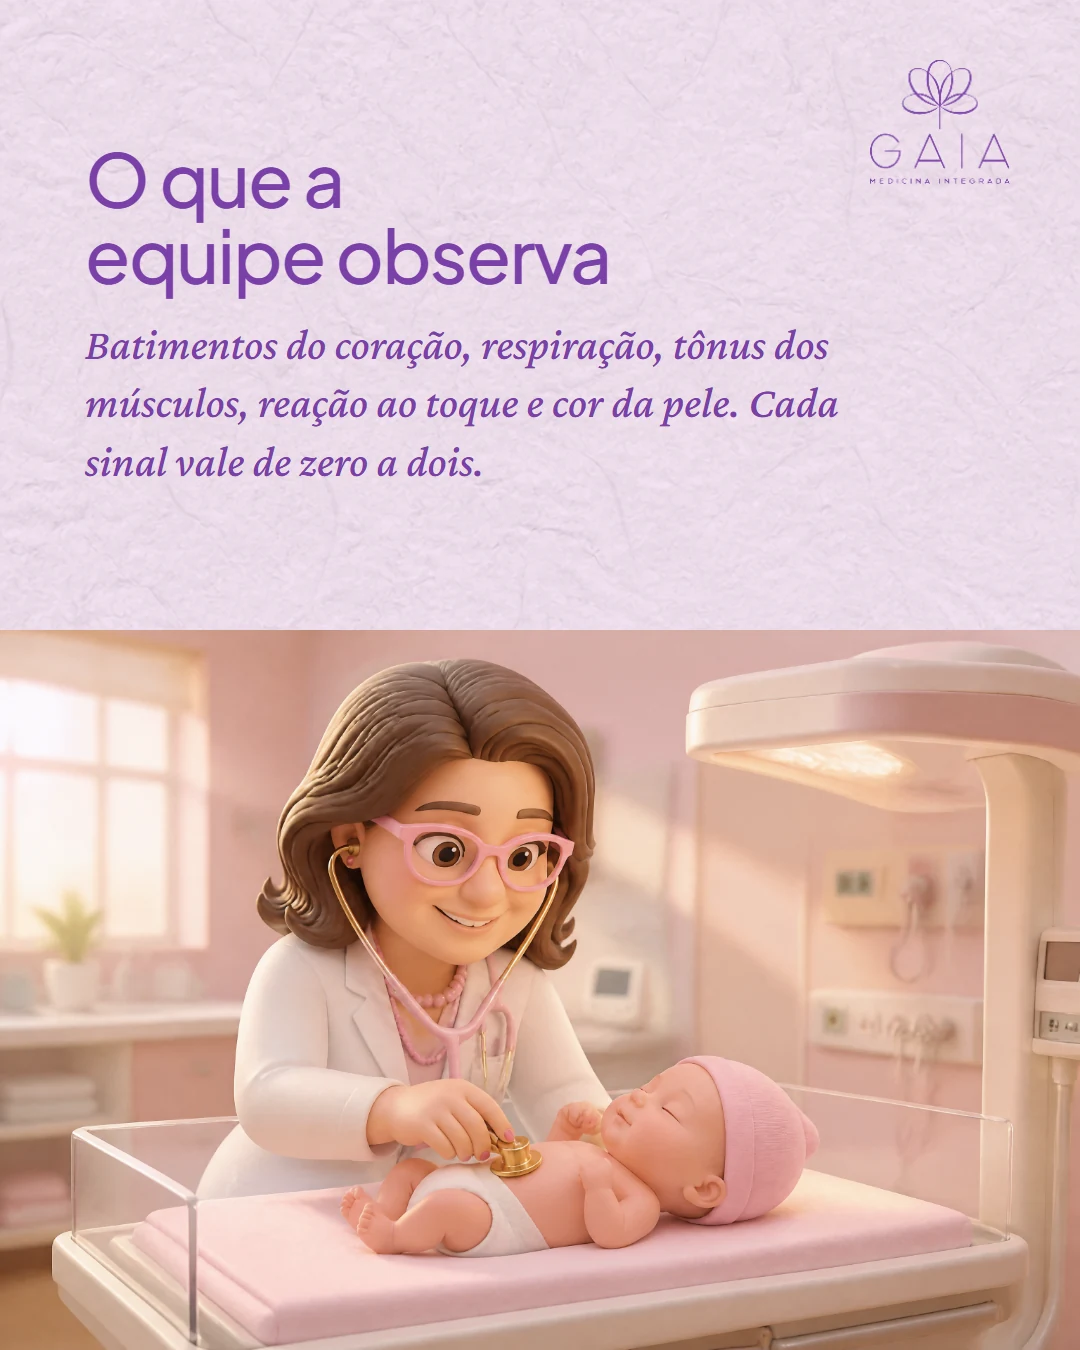
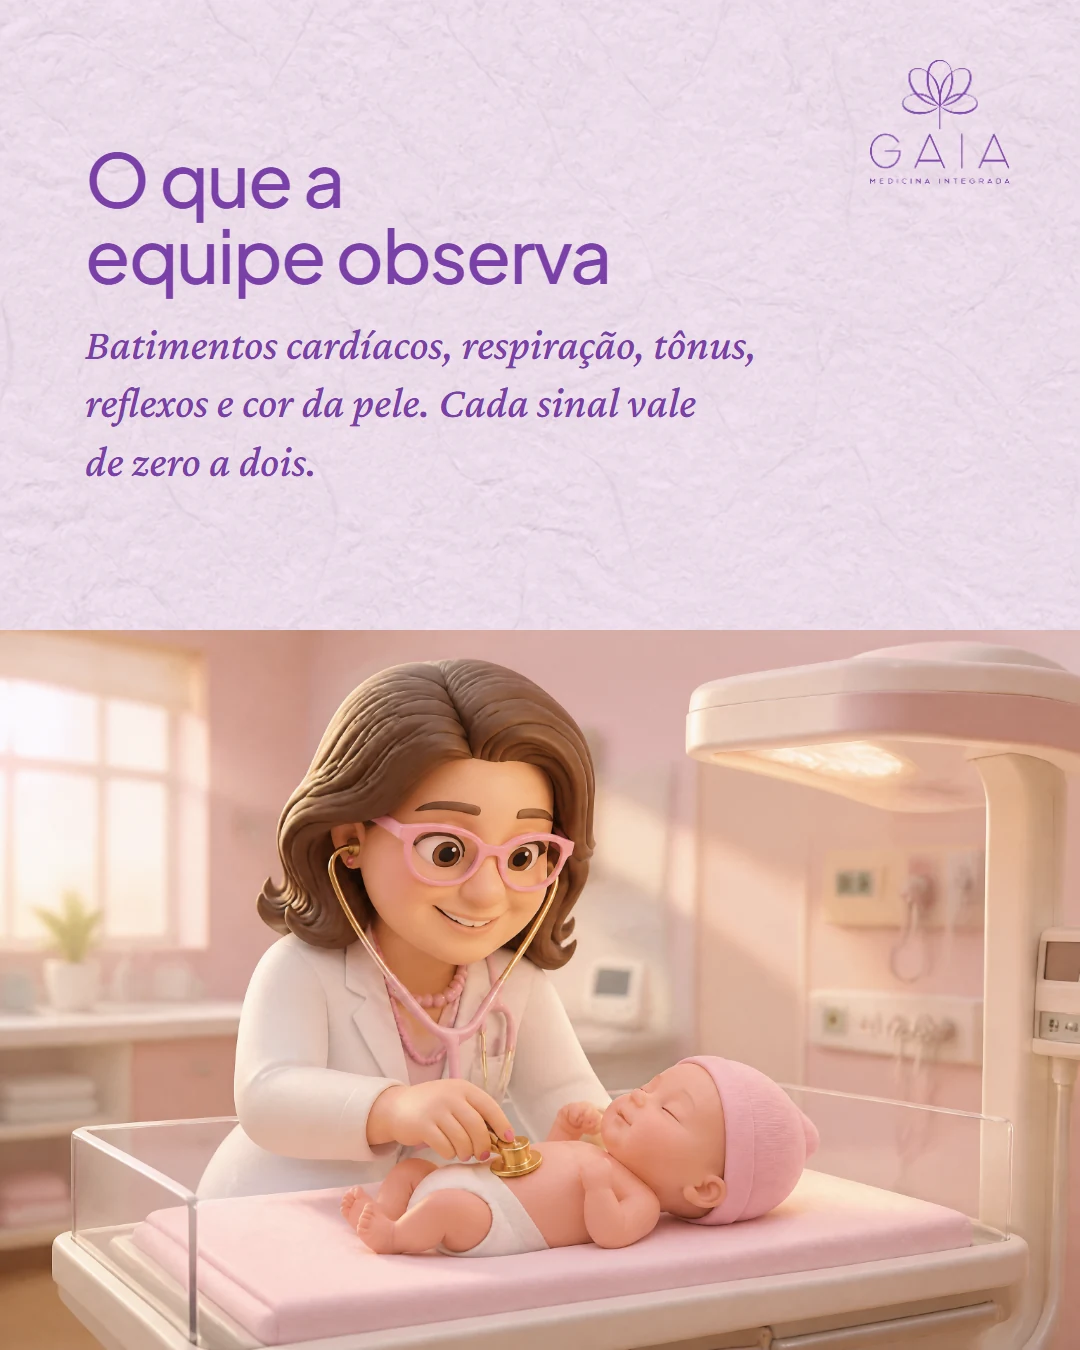
fix(novembro): ajustes da Dra. Katia no carrossel 02 (Apgar)
Cards 3 a 6 e legenda com o texto enviado pela medica.

Changed region(s): [[0.0917, 0.2489, 0.7944, 0.3733]]

diff --git a/novembro/index.html b/novembro/index.html
@@ -1701,7 +1701,7 @@ Anvisa, Anvisa aprova ampliação do uso do Implanon para cinco anos, 26/10/2026
             <span>·</span>
             <span>Origem: <i>Pedido das doutoras para o Novembro Roxo (SBP Diretrizes 2026, p. 16 e Anexo 6)</i></span>
           </div>
-          <div class="nota-clinica-alert"><span>⚠</span> <div><b>Para conferir:</b> Leitura da Dra. Katia. O carrossel fala só do limite populacional que a SBP descreve, sem prever o futuro de uma criança específica.</div></div>
+          <div class="nota-clinica-alert"><span>⚠</span> <div><b>Para conferir:</b> Ajustes da Dra. Katia aplicados em 13/11 nos cards 3 a 6 e na legenda. O card 5 cita agora a recomendação do Ministério da Saúde; a fonte listada no carrossel continua sendo a diretriz da SBP.</div></div>
         </div>
 
         <div class="carrossel-body">
@@ -1803,13 +1803,13 @@ Anvisa, Anvisa aprova ampliação do uso do Implanon para cinco anos, 26/10/2026
             </div>
             <div class="legenda-content-body" id="legenda-text-02">A primeira nota da vida tem nome: Apgar.
 
-Ela é dada no 1º e no 5º minuto depois do nascimento e vai de zero a dez. A equipe observa os batimentos do coração, a respiração, o tônus dos músculos, a reação ao toque e a cor da pele. Cada sinal vale de zero a dois.
+Ela é dada no 1º e no 5º minuto depois do nascimento e vai de zero a dez. A equipe observa os batimentos cardíacos, a respiração, o tônus, os reflexos e a cor da pele. Cada sinal vale de zero a dois.
 
-A nota decide o socorro? Não. O Apgar não é usado para indicar o que fazer na reanimação. Ele registra depois como o bebê respondeu.
+A nota decide o socorro? Não. Ela indica como foi a adaptação do bebê após o nascimento e a resposta às possíveis manobras de reanimação neonatal.
 
-Quando a nota fica abaixo de 7 no quinto minuto, a equipe repete a avaliação a cada cinco minutos, até 20 minutos de vida.
+Quando a nota fica abaixo de 7 no quinto minuto, o Ministério da Saúde recomenda que sejam feitas novas avaliações a cada 5 minutos, até completar 20 minutos de vida. É acompanhamento de perto.
 
-E o futuro do meu filho? O valor de previsão do Apgar aparece em estudos com grandes grupos de bebês. O desenvolvimento de cada criança se acompanha consulta a consulta.
+E o futuro do meu filho? O desenvolvimento da criança será acompanhado em cada consulta.
 
 Este conteúdo é informativo e não substitui a consulta médica.
 

diff --git a/gen_novembro_data.py b/gen_novembro_data.py
@@ -33,7 +33,7 @@ FIXA = {5, 6}  # 15/11 Dia Mundial da Prematuridade · 17/11 Dia de Eliminação
 FECHO = "A frase de fecho foi escrita por nós; o texto da médica prevalece."
 NOTA = {
     1: "Cita o comunicado da Anvisa e a nota da Febrasgo. A RE 4.184/2026 e a bula ainda não foram abertas. " + FECHO,
-    2: "Leitura da Dra. Katia. O carrossel fala só do limite populacional que a SBP descreve, sem prever o futuro de uma criança específica.",
+    2: "Ajustes da Dra. Katia aplicados em 13/11 nos cards 3 a 6 e na legenda. O card 5 cita agora a recomendação do Ministério da Saúde; a fonte listada no carrossel continua sendo a diretriz da SBP.",
     3: "Leitura da Dra. Katia. A regra de 60 segundos citada é a do documento da SBP para bebês com 34 semanas ou mais.",
     4: "\"Proteção que já vem pronta\" é a nossa explicação de anticorpo monoclonal. O card da vacina da gestante usa a Instrução Normativa lida na cópia da Prefeitura de Porto Alegre, ainda não conferida no gov.br. " + FECHO,
     5: "Data fixa: 15/11, Dia Mundial da Prematuridade.",
